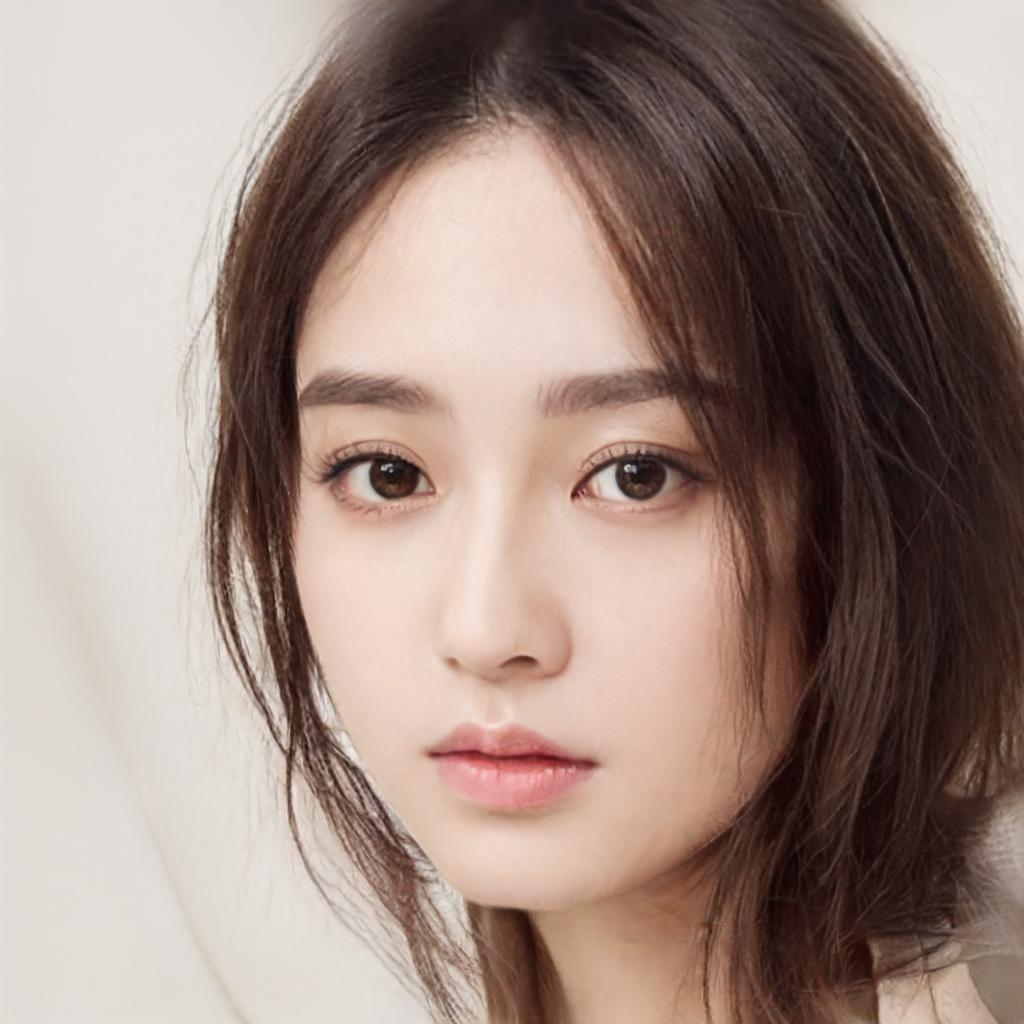
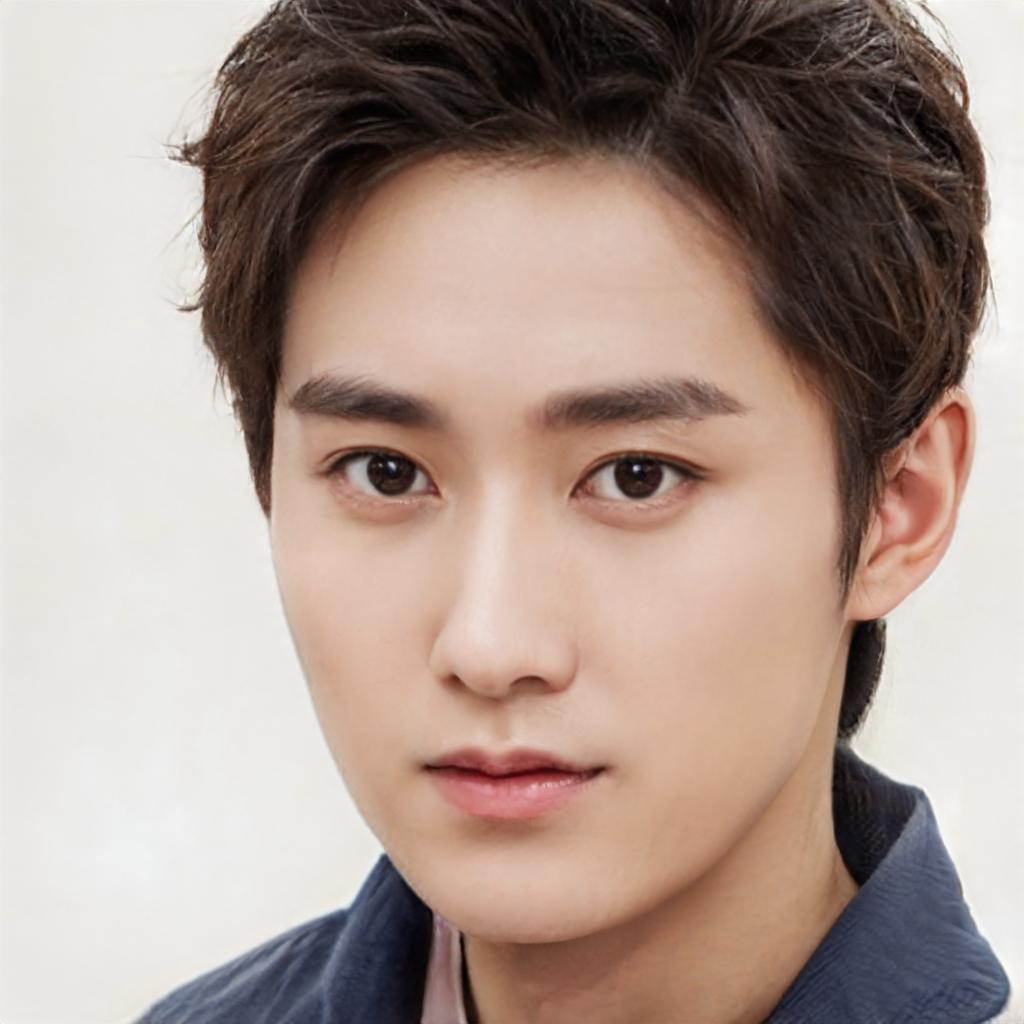
html and flask update

diff --git a/face_gan/templates/random_face.html b/face_gan/templates/random_face.html
@@ -1,10 +1,51 @@
-{% extends 'base.html' %} #这个模板继承了基模板，为名为"body"的块提供了一个替代块
+{% extends 'base.html' %}
+{% block head %}
+<style>
+body {background-color: black}
+</style>
+<font color="white">
+<div align="center"><h1>"Create a unique face in the world!"</h1></div>
+</font>
+<script type="text/javascript">
 
+function reloadPage()
+    {
+        window.location.href=window.location.href
+        window.location.reload()
+    }
+</script>
+<style>
+
+.button {
+  display: inline-block;
+  padding: 15px 25px;
+  font-size: 24px;
+  cursor: pointer;
+  text-align: center;
+  text-decoration: none;
+  outline: none;
+  color: #fff;
+  background-color: #be2a00;
+  border: none;
+  border-radius: 15px;
+  box-shadow: 0 9px #999;
+  margin:0 auto
+}
+
+.button:hover {background-color: #ed3400}
+
+.button:active {
+  background-color: #ff5829;
+  box-shadow: 0 5px #666;
+  transform: translateY(4px);
+}
+</style>
+{% endblock %}
 {% block body %}
-
-
-<p> 
-<img src="../static/random_face.jpg" width="512" height="512" /> 
-</p> 
+<div align="center"><img src="../static/random_face.jpg" width="512" height="512" align="center" /></div>
+<br>
+<div style="margin:0 auto;width:200px;">
+<input type="button" class="button" value="Make Face!" onclick="reloadPage()" />
+</div>
 
 {% endblock %}

diff --git a/face_gan/templates/test.html b/face_gan/templates/test.html
@@ -1,0 +1,13 @@
+{% extends 'base.html' %}
+
+{% block body %}
+<form action="" method="post">
+    <input type="text" name="username">
+    <br>
+    <input type="password" name="pwd">
+    <br>
+    <input type="file" name="my_file">
+    <br>
+    <input type="submit" value="登陆">
+</form>
+{% endblock %}

diff --git a/face_gan/templates/base.html b/face_gan/templates/base.html
@@ -1,8 +1,12 @@
-<!doctype html>
+<!DOCTYPE html>
 <html>
     <head>
         <title>{{ the_title }}</title>
+
 	<h1>{{ the_title }}</h1>
+        {% block head %}
+
+        {% endblock %}
     </head>
     <body>
         {% block body %}

diff --git a/face_gan/templates/edit.html b/face_gan/templates/edit.html
@@ -1,0 +1,10 @@
+{% extends 'base.html' %}
+
+{% block body %}
+
+
+<p> 
+<img src="../static/edit_face.png" width="512" height="512" align="middle"/> 
+</p> 
+
+{% endblock %}

diff --git a/face_gan/flask_app.py b/face_gan/flask_app.py
@@ -7,6 +7,7 @@ import dnnlib.tflib as tflib
 import pickle
 import time
 import tensorflow as tf
+import urllib
 import imageio
 import os
 import keras.backend.tensorflow_backend as KTF
@@ -26,7 +27,7 @@ from ffhq_dataset.landmarks_detector import LandmarksDetector
 
 class FaceHack():
     def __init__(self):
-        self.network_pkl = './networks/normal_face.pkl'
+        self.network_pkl = './networks/star_face.pkl'
         tflib.init_tf()
         self.session = tf.get_default_session()
         self.graph = tf.get_default_graph()
@@ -42,6 +43,17 @@ class FaceHack():
         self.truncation_psi = 0.5
         self.Gs_syn_kwargs.truncation_psi = self.truncation_psi
 
+        self.smile_drt = np.load('latent_directions/smile.npy')
+        self.age_drt = np.load('latent_directions/age.npy')
+        self.gender_drt = np.load('latent_directions/gender.npy')
+        self.beauty_drt = np.load('latent_directions/beauty.npy')
+        self.angleh_drt = np.load('latent_directions/angle_horizontal.npy')
+        self.anglep_drt = np.load('latent_directions/angle_pitch.npy')
+        self.raceblack_drt = np.load('latent_directions/race_black.npy')
+        self.raceyellow_drt = np.load('latent_directions/race_yellow.npy')
+        self.racewhite_drt = np.load('latent_directions/race_white.npy')
+        self.glasses_drt = np.load('latent_directions/glasses.npy')
+
 
     def random_generate(self):
 
@@ -53,6 +65,16 @@ class FaceHack():
         PIL.Image.fromarray(images[0], 'RGB').save(
             dnnlib.make_run_dir_path('./static/random_face.jpg'))
 
+    # def move_latent(latent_vector, Gs_network, Gs_syn_kwargs):
+    #     new_latent_vector = latent_vector.copy()
+    #     new_latent_vector[0][:8] = (latent_vector[0] + smile * smile_drt + age * age_drt + gender * gender_drt
+    #                                 + beauty * beauty_drt + angleh * angleh_drt + anglep * anglep_drt
+    #                                 + raceblack * raceblack_drt + raceyellow * raceyellow_drt + racewhite * racewhite_drt
+    #                                 + glasses * glasses_drt)[:8]
+    #     images = Gs_network.components.synthesis.run(new_latent_vector, **Gs_syn_kwargs)
+    #     result = PIL.Image.fromarray(images[0], 'RGB')
+    #     return result
+
     def make_app(self):
         app = Flask(__name__)
 
@@ -60,18 +82,36 @@ class FaceHack():
         def hello():
             return render_template('base.html', the_title='Welcome FaceHack!')
 
-        @app.route('/givemeaface')
+        @app.route('/givemeaface', methods=["POST","GET"])
         def random_face():
 
             self.random_generate()
-
             return render_template('random_face.html')
 
+        @app.route('/edit', methods=['POST'])
+        def edit_face():
+            face_dir = urllib.request.unquote(request.form.get('face_dir'))
+            w = np.load(face_dir)[np.newaxis, :]
+            with self.graph.as_default():
+                with self.session.as_default():
+                    image = self.Gs_network.components.synthesis.run(w, **self.Gs_syn_kwargs)
+            img = PIL.Image.fromarray(image[0], 'RGB')
+            save_dir = urllib.request.unquote(request.form.get('save_dir'))
+            img.save(save_dir)
+            return 'done'
+        @app.route('/genface', methods=["POST","GET"])
+        def genface():
+            print(request.form)  # 格式 ImmutableMultiDict([('username', '123'), ('pwd', '123')])
+            print(request.form.to_dict())  # 格式 {'username': '123', 'pwd': '123'}
+            return render_template("test.html")
 
         return app
+
+
+
 
 if __name__ == '__main__':
 
     facehack = FaceHack()
     app = facehack.make_app()
-    app.run()
+    app.run(host='0.0.0.0', port=8080)
